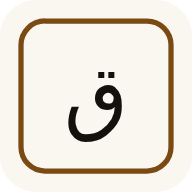
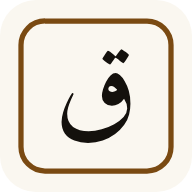
Yayınla

Changed region(s): [[0.3125, 0.375, 0.6875, 0.75], [0.5312, 0.25, 0.6875, 0.3438]]

diff --git a/index.html b/index.html
@@ -4,7 +4,21 @@
 <meta charset="utf-8">
 <meta name="viewport" content="width=device-width, initial-scale=1">
 <meta name="theme-color" content="#faf7f0">
-<title>Kur'an Çalışma Aracı</title>
+<title>Kur'an Çalışma Aracı — ayeti kendin çevir, meallerle karşılaştır</title>
+<meta name="description" content="Kur'an Arapçası çalışanlar için alıştırma aracı: ayeti önce kendin çevir, sonra dört Türkçe mealle karşılaştır, takıldığın kelimeleri sebebiyle kaydet ve kelime kartlarıyla tekrar et. Ücretsiz, çevrimdışı çalışır, kayıtlar yalnızca kendi cihazında durur.">
+
+<!-- Bağlantı WhatsApp/X gibi yerlerde paylaşılınca çıplak link yerine
+     başlık-açıklama-görsel kartı görünsün diye. -->
+<meta property="og:type" content="website">
+<meta property="og:locale" content="tr_TR">
+<meta property="og:site_name" content="Kur'an Çalışma Aracı">
+<meta property="og:title" content="Kur'an Çalışma Aracı — ayeti kendin çevir, meallerle karşılaştır">
+<meta property="og:description" content="Meal okumak için değil: ayeti önce kendin çevirirsin, sonra dört Türkçe mealle farkı görürsün. Takıldığın kelimeler kelime kartı olur.">
+<meta property="og:image" content="https://kuran-gui-public.selcukh.workers.dev/paylasim.png">
+<meta property="og:url" content="https://kuran-gui-public.selcukh.workers.dev/">
+<meta name="twitter:card" content="summary_large_image">
+
+<link rel="canonical" href="https://kuran-gui-public.selcukh.workers.dev/">
 <link rel="manifest" href="manifest.json">
 <link rel="icon" href="ikon.svg" type="image/svg+xml">
 <link rel="apple-touch-icon" href="ikon-192.png">
@@ -74,6 +88,31 @@
 
 <main>
 <div id="calisma-ekrani">
+  <!-- İlk girişte görünür, "Anladım" deyince bir daha çıkmaz. Metin
+       HTML'de sabit duruyor (JS ile üretilmiyor): hem arama motoru
+       botu sayfada aracın ne olduğunu anlatan gerçek bir metin bulsun
+       hem de JavaScript çalışmadığında sayfa bomboş görünmesin. -->
+  <section id="tanitim" dir="ltr" hidden>
+    <h2>Bu araç ne işe yarar?</h2>
+    <p>
+      Kur'an Arapçası çalışanlar için bir alıştırma aracı. Meal okumak
+      için değil: ayeti <strong>önce kendin çevirirsin</strong>, sonra
+      dört Türkçe meali yan yana açıp kendi çevirinle aralarındaki
+      farkı görürsün. Fark nerede çıkıyorsa eksiğin oradadır.
+    </p>
+    <p>
+      Bu yüzden tek bir kural var: <strong>çevirini kaydetmeden
+      mealler görünmez.</strong> Takıldığın kelimeyi sebebiyle birlikte
+      not alırsın; o kelimeler sonra kelime kartı olarak karşına çıkar.
+      Kayıtların yalnızca kendi cihazında tutulur, hiçbir yere
+      gönderilmez.
+    </p>
+    <div class="satir">
+      <button id="tanitim-kapat" type="button">Anladım, başlayalım</button>
+      <a href="yardim.html">Önce kılavuzu oku</a>
+    </div>
+  </section>
+
   <section id="ayet-bolum">
     <p id="besmele" class="besmele" dir="rtl" lang="ar" hidden></p>
     <p id="arapca" class="arapca" dir="rtl" lang="ar"></p>

diff --git a/app.js b/app.js
@@ -1323,6 +1323,18 @@ el("nadir-cevir").addEventListener("click", () => {
   el("nadir-cevir").hidden = true;
 });
 el("nadir-sonraki").addEventListener("click", nadirYeniKelime);
+
+// Tanıtım yalnızca ilk girişte. Kapatıldığı bilgisi localStorage'da —
+// çeviri/hata kayıtlarıyla ilgisi yok, yedeklenmesine de gerek yok.
+(function tanitim() {
+  let gorulmus = false;
+  try { gorulmus = localStorage.getItem("tanitim-gorundu") === "1"; } catch (e) { /* yok say */ }
+  el("tanitim").hidden = gorulmus;
+  el("tanitim-kapat").addEventListener("click", () => {
+    el("tanitim").hidden = true;
+    try { localStorage.setItem("tanitim-gorundu", "1"); } catch (e) { /* yok say */ }
+  });
+})();
 document.querySelectorAll('input[name="nadir-zorluk"]').forEach((r) => {
   r.addEventListener("change", () => {
     if (r.checked) { nadirZorluk = r.value; nadirZorlukKaydet(r.value); }

diff --git a/yardim.html b/yardim.html
@@ -3,7 +3,9 @@
 <head>
 <meta charset="utf-8">
 <meta name="viewport" content="width=device-width, initial-scale=1">
-<title>Yardım — Kur'an Çalışma Aracı</title>
+<title>Kullanım Kılavuzu — Kur'an Çalışma Aracı</title>
+<meta name="description" content="Kur'an Çalışma Aracı'nın kullanım kılavuzu: ayeti kendin çevirip dört mealle karşılaştırma yöntemi, hata kategorileri, kelime kartları ve kayıtlarını yedekleme.">
+<link rel="icon" href="ikon.svg" type="image/svg+xml">
 <link rel="stylesheet" href="style.css">
 <link rel="stylesheet" href="yardim.css">
 </head>

diff --git a/style.css b/style.css
@@ -300,6 +300,19 @@ textarea { width: 100%; resize: vertical; line-height: 1.5; }
 
 section { margin-top: 2rem; }
 
+/* İlk giriş tanıtımı: dikkat çeksin ama bağırmasın. */
+#tanitim {
+  margin-top: 1rem;
+  padding: 1rem 1.1rem;
+  background: var(--secili);
+  border-left: 3px solid var(--vurgu);
+  border-radius: 3px;
+}
+
+#tanitim h2 { margin-top: 0; }
+#tanitim p { margin: 0 0 0.7rem; }
+#tanitim a { color: var(--vurgu); }
+
 .satir {
   display: flex;
   align-items: center;

diff --git a/sw.js b/sw.js
@@ -8,7 +8,7 @@
 // verir; sürüm başka bir dosyada dursaydı (önceki tasarım) bu satır
 // hiç değişmediği için güncelleme hiç tetiklenmezdi. Bu satırı elle
 // değiştirme; pwa_hazirla.py her çalıştığında üzerine yazar.
-const SURUM = "kuran-aef06b680d42";
+const SURUM = "kuran-fb131a799080";
 
 const KABUK = [
   "./",

diff --git a/surum.js b/surum.js
@@ -2,4 +2,4 @@
    güvenmeden, doğrudan CacheStorage'a bakarak cevaplayabiliyor.
    sw.js'teki SURUM ile aynı değeri taşır — pwa_hazirla.py her
    çalıştığında üzerine yazar, elle değiştirme. */
-const KURAN_SURUM = "aef06b680d42";
+const KURAN_SURUM = "fb131a799080";
